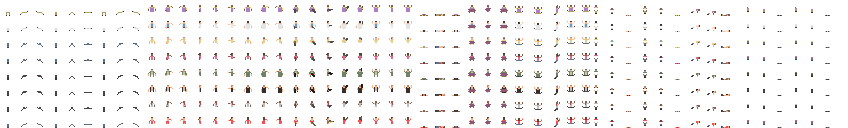
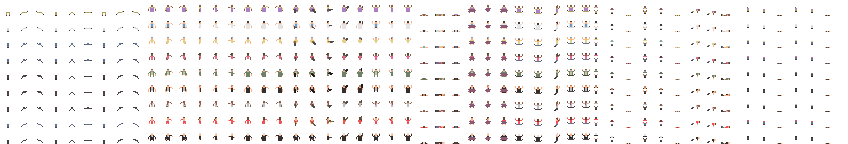
add joe cheat code

diff --git a/h4d2/Infrastructure/H4D2/CheatCode.cs b/h4d2/Infrastructure/H4D2/CheatCode.cs
@@ -1,0 +1,61 @@
+using H4D2.Levels;
+
+namespace H4D2.Infrastructure.H4D2;
+
+public class CheatCode
+{
+    private readonly Level _level;
+
+    private static readonly MovementKey[] _sequence =
+    [
+        MovementKey.D,
+        MovementKey.A,
+        MovementKey.D,
+        MovementKey.W,
+        MovementKey.A,
+        MovementKey.D,
+        MovementKey.S
+    ];
+    
+    private readonly LinkedList<MovementKey> _inputHistory;
+    
+    public CheatCode(Level level)
+    {
+        _level = level;
+        _inputHistory = [];
+    }
+
+    public void Update(Input input)
+    {
+        foreach (MovementKey key in input.PressedMovementKeys)
+        {
+            if(_inputHistory.Count == 0 || _inputHistory.Last() != key)
+                _inputHistory.AddLast(key);
+        }
+
+        while (_inputHistory.Count > _sequence.Length)
+            _inputHistory.RemoveFirst();
+
+        if (_CheatCodeEntered())
+        {
+            _level.SpawnJoe();
+            _inputHistory.Clear();
+        }
+    }
+
+    private bool _CheatCodeEntered()
+    {
+        if (_inputHistory.Count != _sequence.Length)
+            return false;
+
+        int i = 0;
+        foreach (MovementKey key in _inputHistory)
+        {
+            if (key != _sequence[i])
+                return false;
+            i++;
+        }
+
+        return true;
+    }
+}

diff --git a/h4d2/Levels/Level.cs b/h4d2/Levels/Level.cs
@@ -798,6 +798,34 @@ public class Level
         }
     }
 
+    public void SpawnJoe()
+    {
+        int tileIndex = 0;
+        while (true)
+        {
+            tileIndex = RandomSingleton.Instance.Next(TileTypes.Length);
+            if (
+                TileTypes[tileIndex] != TileType.Wall &&
+                !IsTileAdjacentToWall(tileIndex) &&
+                !_consumableSpawnLocations.Contains(tileIndex) &&
+                !_activeThrowableLocations.Contains(tileIndex)
+            )
+            {
+                break;
+            }
+        }
+        Tile tile = GetTileFromIndex(tileIndex);
+        Position joePos = new Position(
+            (tile.X * TilePhysicalSize) + _pickupXOffset,
+            (-tile.Y * TilePhysicalSize) + _pickupYOffset
+        );
+        Survivor joe = SurvivorSpawner.Spawn(SurvivorDescriptor.Joe, this, joePos);
+        _entities.Add(joe);
+        
+        (int audioX, int audioY) = joe.AudioLocation;
+        AudioManager.Instance.PlaySFX(SFX.WitchAlert, audioX, audioY);
+    }
+    
     private bool _SpawnConsumable()
     {
         int triesRemaining = 5;

diff --git a/h4d2/Game.cs b/h4d2/Game.cs
@@ -19,6 +19,7 @@ public class Game
     private H4D2BitmapCanvas _screen = null!;
     private ShadowBitmap _shadows = null!;
     private Level _level = null!;
+    private CheatCode _cheatCode = null!;
     private readonly CollisionManager<CollisionGroup> _collisionManager;
     private SpecialSpawner? _specialSpawner;
     private bool _isInGame;
@@ -57,6 +58,7 @@ public class Game
             _OnMainMenuGameOver;
         _screen = new H4D2BitmapCanvas(_screenWidth, _screenHeight, _camera);
         _shadows = new ShadowBitmap(_screenWidth, _screenHeight, _camera);
+        _cheatCode = new CheatCode(_level);
         _isInGame = isInGame;
         AudioManager.Instance.SetInGameState(isInGame);
         _isPaused = false;
@@ -102,6 +104,7 @@ public class Game
         {
             _specialSpawner.Update(input, elapsedTime);
             _camera.Update(input.PressedMovementKeys, elapsedTime);
+            _cheatCode.Update(input);
         }
     }
     

diff --git a/h4d2/Entities/Mobs/Survivors/Joe.cs b/h4d2/Entities/Mobs/Survivors/Joe.cs
@@ -1,0 +1,32 @@
+using H4D2.Entities.Projectiles.ThrowableProjectiles;
+using H4D2.Infrastructure;
+using H4D2.Levels;
+
+namespace H4D2.Entities.Mobs.Survivors;
+
+public class Joe : Survivor
+{
+    private PipeBombProjectile? _explosionSource;
+    
+    public Joe(Level level, Position position)
+        : base(level, position, SurvivorConfigs.Joe)
+    {
+        _weapon = null;
+    }
+
+    public override void Update(double elapsedTime)
+    {
+        base.Update(elapsedTime);
+        const int expectedUpdatesPerSecond = 60;
+        const int expectedUpdatesPerMinute = expectedUpdatesPerSecond * 60;
+        if (Probability.OneIn(expectedUpdatesPerMinute))
+            _Die();
+    }
+
+    protected override void _Die()
+    {
+        base._Die();
+        _explosionSource = new PipeBombProjectile(_level, CenterMass.MutableCopy(), 0.0);
+        _level.Explode(_explosionSource);
+    }
+}

diff --git a/h4d2/Spawners/SurvivorSpawner.cs b/h4d2/Spawners/SurvivorSpawner.cs
@@ -14,7 +14,8 @@ public enum SurvivorDescriptor
     Francis,
     Louis,
     Zoey,
-    MegaCoach
+    MegaCoach,
+    Joe
 }
 
 public static class SurvivorSpawner
@@ -31,7 +32,8 @@ public static class SurvivorSpawner
             SurvivorDescriptor.Francis => new Francis(level, position),
             SurvivorDescriptor.Louis => new Louis(level, position),
             SurvivorDescriptor.Zoey => new Zoey(level, position),
-            _ => new MegaCoach(level, position)
+            SurvivorDescriptor.MegaCoach => new MegaCoach(level, position),
+            _ => new Joe(level, position)
         };
     }
 }

diff --git a/h4d2/Infrastructure/H4D2/H4D2Art.cs b/h4d2/Infrastructure/H4D2/H4D2Art.cs
@@ -112,7 +112,7 @@ public static class H4D2Art
     }
     
     private static Bitmap[][] _LoadSurvivors() => 
-        Art.LoadBitmaps($"{Resources.EmbeddedPrefix}.survivor.png", SpriteSize, 8, 53);
+        Art.LoadBitmaps($"{Resources.EmbeddedPrefix}.survivor.png", SpriteSize, 9, 53);
     private static Bitmap[][] _LoadCommons() => 
         Art.LoadBitmaps($"{Resources.EmbeddedPrefix}.common.png", SpriteSize, 9, 23);
     private static Bitmap[][] _LoadUncommons() => 

diff --git a/h4d2/Entities/Mobs/Survivors/SurvivorConfig.cs b/h4d2/Entities/Mobs/Survivors/SurvivorConfig.cs
@@ -99,4 +99,13 @@ public static class SurvivorConfigs
         GibColor = _blackSkinColor,
         BoundingBox = _boundingBox
     };
+
+    public static readonly SurvivorConfig Joe = new()
+    {
+        Character = 8,
+        Health = _defaultHealth,
+        RunSpeed = _runSpeed * 2,
+        GibColor = _whiteSkinColor,
+        BoundingBox = _boundingBox
+    };
 }
